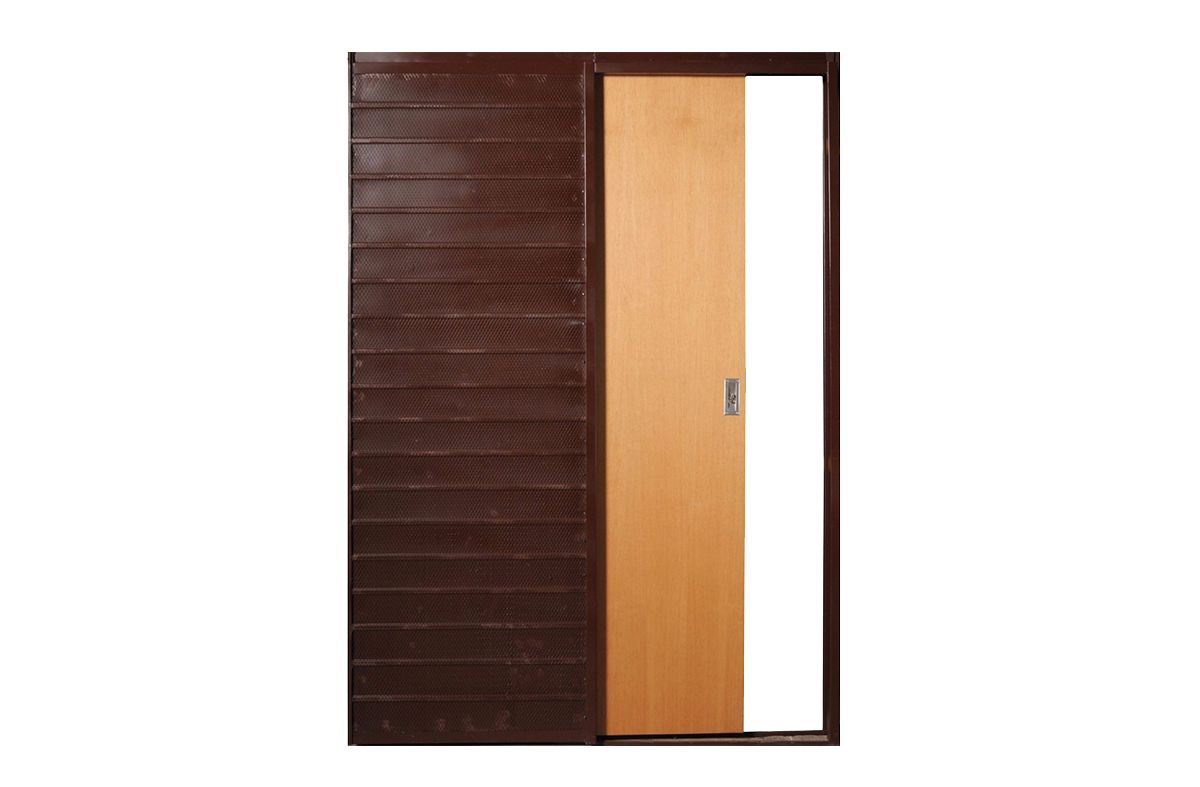
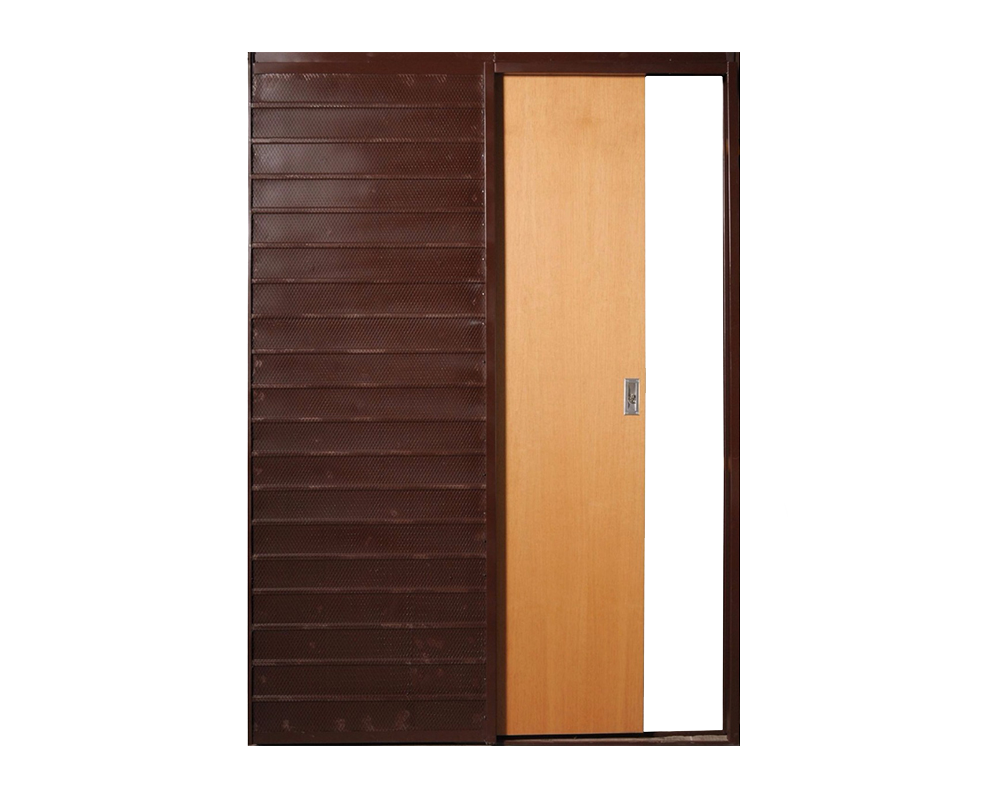
improved img spacing

diff --git a/src/components/ItemDetail.jsx b/src/components/ItemDetail.jsx
@@ -14,7 +14,11 @@ const ItemDetail = ({ data }) => {
             marginY="80px"
             justifyContent="center"
           >
-            <Box maxWidth="500px" margin="auto" marginRight="5px">
+            <Box
+              maxWidth="500px"
+              margin="auto"
+              sx={{ paddingRight: { xs: "0", br750: "5px" } }}
+            >
               <img src={prod.img} className="img" alt={prod.alt} />
             </Box>
             <Stack
